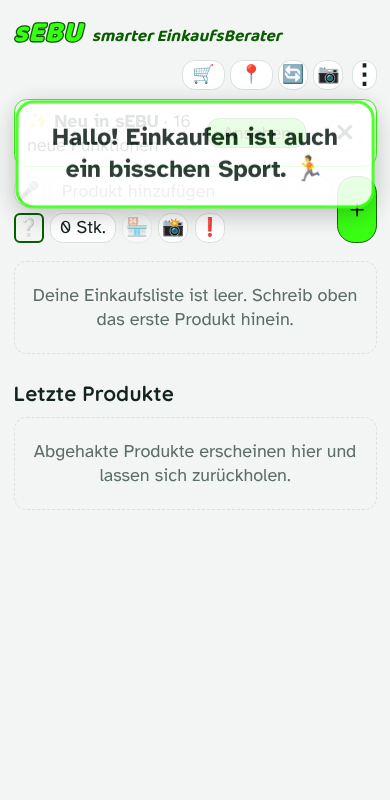
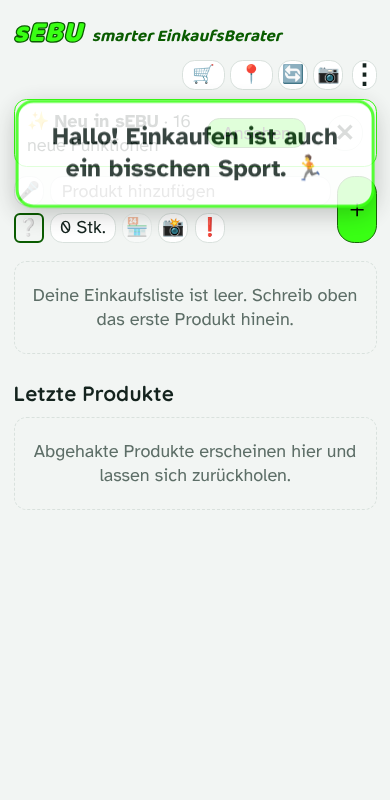
Listen-Leiste weg, aktive Liste klein beim Schnellstart-Knopf
Claude-Session: https://claude.ai/code/session_01D8YzSZq49mBYGwQ71jG7sa

Changed region(s): [[0.0615, 0.125, 0.9538, 0.2188], [0.0615, 0.25, 0.8615, 0.2812]]

diff --git a/index.html b/index.html
@@ -106,6 +106,7 @@ html.addwrap .add{display:grid;grid-template-columns:repeat(var(--n),auto) 1fr a
 .wheels.hz .band{top:0;left:calc(50% - var(--ww)/2);width:var(--ww);height:var(--wo);right:auto}
 .greet{position:fixed;left:50%;top:4.2em;transform:translateX(-50%);width:min(92vw,26em);z-index:60;background:var(--card);color:var(--ink);border:3px solid #39FF14;box-shadow:0 6px 24px rgba(0,0,0,.25);border-radius:18px;padding:.8em 1em;font-size:1.35em;font-weight:700;text-align:center;line-height:1.3;animation:grin .35s ease-out;transition:opacity .4s,transform .4s;cursor:pointer}
 .greet.out{opacity:0;transform:translate(-50%,-.6em)}@keyframes grin{from{opacity:0;transform:translate(-50%,-.6em)}to{opacity:1;transform:translate(-50%,0)}}
+.qkb.ql{gap:.25em;padding:0 .55em}.qkb.ql small{font-size:.62em;max-width:6.5em;overflow:hidden;text-overflow:ellipsis;white-space:nowrap}
 .tc>.card{pointer-events:auto;display:block;max-width:34em;width:100%;user-select:text;box-shadow:0 .3em 1.2em #0005}
 .ordrow{display:flex;align-items:center;gap:.4em;padding:.3em .4em;margin-bottom:.3em;background:var(--card);border:1px solid var(--line);border-radius:.7em}
 .ordrow.drag{opacity:.5}
@@ -531,7 +532,10 @@ function banner(){
   +(S.set.cats&&S.items.length?'<div class="ban"><span class="small">'+esc(catsLine())+'</span></div>':'');
  return''}
 function quickNav(){var q=S.set.quick;if(!q)return null;return NAV.concat(MORE).filter(function(n){return n[0]===q})[0]||null}
-function quickBtn(){var n=quickNav();if(!n)return'';return'<button class="btn sq qkb" data-a="quick" aria-label="'+t('Schnellstart: {0}',t(n[2]))+'">'+n[1]+'</button>'}
+function quickBtn(){var n=quickNav();if(!n)return'';if(n[0]==='lists'){var al=listById(curL())||{id:'L0',name:'Allgemein'};return'<button class="btn qkb ql" data-a="quick" aria-label="'+t('Einkaufsliste wählen, aktiv: {0}',lname(al))+'">'+n[1]+'<small>'+esc(lname(al))+'</small></button>'}return'<button class="btn sq qkb" data-a="quick" aria-label="'+t('Schnellstart: {0}',t(n[2]))+'">'+n[1]+'</button>'}
+function shListPick(){var c=curL(),h='<h2>📋 '+t('Welche Liste?')+'</h2><div class="seg" style="flex-direction:column;align-items:stretch">';
+ S.lists.forEach(function(l){var n=S.items.filter(function(i){return listOf(i)===l.id}).length;h+='<button class="btn'+(l.id===c?' pri':'')+'" data-a="listpick" data-v="'+l.id+'" style="justify-content:flex-start">'+(l.id===c?'✓ ':'')+esc(lname(l))+(n?' <span class="small">('+n+')</span>':'')+(l.store?' <span class="small mute">📍 '+esc(l.store)+'</span>':'')+'</button>'});
+ return h+'</div><div class="seg" style="margin-top:.6em"><button class="btn" data-a="nav" data-v="lists">⚙ '+t('Listen verwalten')+'</button><button class="btn" data-a="shclose">'+t('Schliessen')+'</button></div>'}
 function shopBar(pv){
  if(S.shop&&!pv)return'';var b=on('bar'),c=on('cam')||on('scan'),qb=quickBtn();if(!b&&!c&&!qb)return'';var x=pv?'':' id="shopbtn"';
  return'<div class="seg topbar" style="margin-bottom:.5em">'+qb+(b?'<button class="btn"'+x+' data-a="shopstart" aria-label="'+t('Einkauf starten')+'">🛒'+(S.set.btnText?' '+t('Start'):'')+'</button>'+(cur?'':'<button class="btn" data-a="storepick" aria-label="'+t('Laden wählen')+'">📍'+(S.set.btnText?' '+t('Laden'):'')+'</button>')+'<button class="btn sq" data-a="gpsrefresh" aria-label="'+t('Filiale neu suchen')+'">🔄</button>':'')+(c?'<button class="btn sq'+(pv?'':' camb')+'" data-a="cam" aria-label="'+t(on('scan')&&!on('cam')?'Strichcode scannen':'Ratgeber')+'">📷</button>':'')+'</div>'}
@@ -745,8 +749,8 @@ function listBar(){if(!S.lists||S.lists.length<2)return'';var c=curL(),h='<div c
  S.lists.forEach(function(l){var n=S.items.filter(function(i){return listOf(i)===l.id}).length;h+='<button class="chip'+(l.id===c?' sel':'')+'" data-a="listset" data-v="'+l.id+'">🧾 '+esc(lname(l))+(n?' ('+n+')':'')+'</button>'});
  return h+'</div>'}
 function storeOpts(){var o=[],seen={};function a(n){if(n&&!seen[n]){seen[n]=1;o.push(n)}}S.mine.forEach(function(m){a(m.name)});noLocStores().forEach(a);allCh().filter(chainOn).forEach(a);return o}
-function listsBlock(){var h='<p class="small mute">'+t('Statt jedes Produkt einem Laden zuzuordnen, legst du eine eigene Liste an, zum Beispiel «Aligro». Oben über der Liste wechselst du zwischen den Listen. Mit einem Laden öffnet sich die Liste von selbst, wenn du dort bist.')+'</p>',so=storeOpts();
- S.lists.forEach(function(l,ix){h+='<div class="card" style="flex-wrap:wrap;gap:.4em"><input class="field" data-chg="lname" data-id="'+l.id+'" value="'+esc(lname(l))+'" style="flex:1 1 8em"><select class="field" data-chg="lstore" data-id="'+l.id+'" style="flex:1 1 8em;height:calc(var(--rh)*.8)"><option value="">'+t('Kein Laden')+'</option>'+so.map(function(n){return'<option value="'+esc(n)+'"'+(l.store===n?' selected':'')+'>📍 '+esc(n)+'</option>'}).join('')+'</select>'+(l.id==='L0'?'':'<button class="btn sq" data-a="listdel" data-id="'+l.id+'" aria-label="'+t('Liste löschen')+'">✕</button>')+'</div>'});
+function listsBlock(){var h='<p class="small mute">'+t('Statt jedes Produkt einem Laden zuzuordnen, legst du eine eigene Liste an, zum Beispiel «Aligro». Die aktive Liste wählst du hier mit «Wählen» – oder schneller über den Schnellstart-Knopf, wenn du dort «Einkaufslisten» einstellst. Mit einem Laden öffnet sich die Liste von selbst, wenn du dort bist.')+'</p>',so=storeOpts();
+ S.lists.forEach(function(l,ix){var ac=l.id===curL();h+='<div class="card" style="flex-wrap:wrap;gap:.4em"><button class="btn'+(ac?' pri':'')+'" data-a="listset" data-v="'+l.id+'" aria-label="'+t('Als aktive Liste wählen')+'">'+(ac?'✓ '+t('Aktiv'):t('Wählen'))+'</button><input class="field" data-chg="lname" data-id="'+l.id+'" value="'+esc(lname(l))+'" style="flex:1 1 8em"><select class="field" data-chg="lstore" data-id="'+l.id+'" style="flex:1 1 8em;height:calc(var(--rh)*.8)"><option value="">'+t('Kein Laden')+'</option>'+so.map(function(n){return'<option value="'+esc(n)+'"'+(l.store===n?' selected':'')+'>📍 '+esc(n)+'</option>'}).join('')+'</select>'+(l.id==='L0'?'':'<button class="btn sq" data-a="listdel" data-id="'+l.id+'" aria-label="'+t('Liste löschen')+'">✕</button>')+'</div>'});
  h+='<h3 id="listnew">＋ '+t('Neue Liste')+'</h3><div class="seg"><input class="field" id="lnn" placeholder="'+t('Name, z. B. Aligro')+'" style="flex:1"><button class="btn pri" data-a="listadd">＋ '+t('Liste')+'</button></div>';
  return h+rowC(t('Liste automatisch öffnen, wenn ich im Laden bin'),'listAuto',S.set.listAuto!==false)}
 /* ===== Begrüssung: 3 s gross beim Öffnen, je Tageszeit, 31 Sprüche = kein Spruch doppelt im Monat ===== */
@@ -772,7 +776,7 @@ function addRow(real){var has=draft.type||draft.stores.length||draft.stext,id=fu
 function vList(){
  var h=newsBanner()+banner()+locBanner()+remBanner()+typBanner()+openBanner()+alarm()+shopBar()+askBar(),nMore=S.items.filter(function(i){return i.type}).length,has=draft.type||draft.stores.length||draft.stext;
  if(nMore||ltab==='more')h+='<div class="seg" style="margin-bottom:.5em"><button class="btn'+(ltab==='food'?' sel':'')+'" data-a="ltab" data-v="food">'+t('Lebensmittel')+'</button><button class="btn'+(ltab==='more'?' sel':'')+'" data-a="ltab" data-v="more">'+t('Weitere')+' ('+nMore+')</button></div>';
- h+=listBar()+addRow(1)+'<div id="sug" class="sug">'+sugHtml()+'</div>';
+ h+=addRow(1)+'<div id="sug" class="sug">'+sugHtml()+'</div>';
  var cl=curL(),mineI=sortedItems().filter(function(i){return(listOf(i)===cl&&inTab(i))||(i.urg&&ltab==='food')});
  if(!mineI.length)h+='<div class="empty">'+(ltab==='more'?t('Hier stehen Dinge, die nicht in den Supermarkt gehören, zum Beispiel aus dem Baumarkt. Wähle bei der Eingabe mit 🏪 einen Ladentyp.'):t('Deine Einkaufsliste ist leer. Schreib oben das erste Produkt hinein.'))+'</div>';
  else if((S.set.swipeN||0)<3)h+='<p class="mute small" style="margin:0 0 .4em">'+t('Zum Löschen ein Produkt nach links wischen.')+'</p>';
@@ -849,7 +853,7 @@ function shShop(){var s=sh.sel,h='<h2>'+t('Wo kaufst du das?')+'</h2><h3>'+t('Le
  +'</div><div class="seg" style="margin-top:.6em"><input class="field" id="sst" value="'+esc(s.text)+'" placeholder="'+t('Anderer Laden (optional, von Hand)')+'" style="flex:1"></div>'
  +'<div class="seg" style="margin-top:.6em"><button class="btn pri" data-a="shok">OK</button><button class="btn" data-a="shclr">'+t('Zurücksetzen')+'</button><button class="btn" data-a="shclose">'+t('Abbrechen')+'</button></div>';return h}
 function sheetHtml(){if(!sh)return'';var b='';
- switch(sh.t){case'cat':b=shCat();break;case'store':b=shStore();break;case'hedit':b=shHedit();break;case'confirm':b=shConfirm();break;case'delcat':b=shDelcat();break;case'qty':b=shQty();break;case'shopsel':b=shShop();break;case'emoji':b=shEmoji();break;case'deal':b=shDeal();break;case'dealconf':b=shDealConf();break;case'scan':b=shScan();break;case'voice':b=shVoice();break;case'remask':b=shRemAsk();break;case'photo':b=shPhoto();break;case'geointro':b=shGeoIntro();break;case'lochelp':b=shLocHelp();break;case'price':b=shPrice();break;case'news':b=shNews();break;case'camwhich':b=shCamWhich();break}
+ switch(sh.t){case'cat':b=shCat();break;case'store':b=shStore();break;case'hedit':b=shHedit();break;case'confirm':b=shConfirm();break;case'delcat':b=shDelcat();break;case'qty':b=shQty();break;case'shopsel':b=shShop();break;case'emoji':b=shEmoji();break;case'deal':b=shDeal();break;case'dealconf':b=shDealConf();break;case'scan':b=shScan();break;case'voice':b=shVoice();break;case'remask':b=shRemAsk();break;case'photo':b=shPhoto();break;case'listpick':b=shListPick();break;case'geointro':b=shGeoIntro();break;case'lochelp':b=shLocHelp();break;case'price':b=shPrice();break;case'news':b=shNews();break;case'camwhich':b=shCamWhich();break}
  return'<div class="sheet" data-a="shclose"><div>'+b+'</div></div>'}
 
 function shQty(){var us=allUnits(),hd=S.set.hand||'right',h='<h2>'+t('Menge und Einheit')+'</h2><div class="wheels hz '+hd+'"><div class="wl">'+t('Menge')+'</div><div class="wrow wq"><div class="wheel" id="wq"><div class="sp"></div>';
@@ -1106,8 +1110,7 @@ AREAS.push(['Eingabeseite',[
  st('list','#catb','Links zeigt das Symbol das Produkt oder die Kategorie. Die App erkennt es beim Schreiben selbst, auch in zusammengesetzten Wörtern: «Paprikapulver» bekommt 🫑. Antippen wählt die Kategorie von Hand.','Gedrückt halten auf dem Symbol eines Produkts zeigt, wohin es gehört, zum Beispiel «Vorräte › Öl & Essig».\nKategorie-Auswahl: oben suchen (zum Beispiel «Asia») oder bei einer Hauptkategorie ▸ antippen, dann erscheinen die Unterkategorien.\nEigenes Symbol: Symbol antippen, dann «Eigenes Symbol für das Produkt». Die App merkt es sich.\nWenn das Symbol nicht passt: dort «Wieder automatisch» oder ein anderes wählen.\nEigene Kategorien legst du in den Einstellungen an.',{ro:1}),
  st('list','.add .qu','Menge und Einheit: Die Menge hat drei Ziffern und beginnt bei 0. Eigene Einheiten kannst du einfach hineinschreiben.','Tippe darauf: Zwei grosse Räder erscheinen, eines für die Menge, eines für die Einheit. Sie laufen waagrecht – nach links oder rechts wischen. Jeder Schritt rastet ein und macht «klick».\nFür welche Hand die Räder liegen, stellst du unter «Favoriten und Letzte Produkte» ein.\nDer Klick lässt sich unter Einstellungen → «Favoriten und Letzte Produkte» ausschalten.',{ro:1}),
  st('list','[data-a=shopsel][data-id=draft]','🏪: Wähle, wo du das Produkt kaufst, oder einen Ladentyp wie Baumarkt.','Produkte mit festem Laden erscheinen in der Liste erst, wenn du dort bist. Du findest sie immer unter «Läden».',{ro:1}),
- st('list','.qkb','⚡ Schnellstart: Dieser Knopf öffnet direkt deinen Lieblingsbereich.','Welcher Bereich, wählst du unter Einstellungen → Einkaufsliste → Schnellstart-Knopf.',{ro:1}),
- st('list','#lbar','🧾 Einkaufslisten: Hier wechselst du zwischen deinen Listen, zum Beispiel «Allgemein» und «Aligro». Was du eingibst, kommt in die gewählte Liste.','Dringende Produkte ❗ siehst du in jeder Liste.\nListen legst du unter Einstellungen → Einkaufslisten an. Mit einem Laden öffnet sich die Liste von selbst, wenn du dort bist.\n<b>Wenn ein Produkt fehlt:</b> Es steht wohl in einer anderen Liste – die Zahl in Klammern zeigt, wie viele dort sind.',{ro:1}),
+ st('list','.qkb','⚡ Schnellstart: Dieser Knopf öffnet direkt deinen Lieblingsbereich.','Welcher Bereich, wählst du unter Einstellungen → Einkaufsliste → Schnellstart-Knopf.\n<b>Mit «Einkaufslisten»:</b> Neben 📋 steht klein, welche Liste gerade aktiv ist. Antippen öffnet die Auswahl deiner Listen.\n<b>Wenn ein Produkt fehlt:</b> Es steht wohl in einer anderen Liste – die Zahl in Klammern zeigt, wie viele dort sind.',{ro:1}),
  st('list','.phb','📸 Produktfoto: Fotografiere das Produkt beim Aufschreiben, dann kaufst du sicher das richtige.','Das Foto ersetzt in der Liste das Symbol, das Produkt bleibt in seiner Kategorie. Antippen zeigt das Foto gross, dort kannst du es ersetzen oder entfernen.\nDas Foto bleibt beim Produkt, auch bei den Favoriten und den letzten Produkten.\n<b>Wenn es nicht klappt:</b> Kamera für Safari erlauben. Fotos brauchen Speicher – bei «Speicher voll» alte Fotos entfernen.',{ro:1}),
  st('list','[data-a=urgtog][data-id=draft]','❗ Notfall: Tippe vor dem ＋ darauf, wenn etwas dringend ist. Dringendes steht immer zuoberst, rot umrandet und grösser.','Dringend erscheint in jedem Laden, auch wenn du es einem bestimmten Laden zugeordnet hast. Beim Einkaufsende erinnert die App, wenn noch Dringendes offen ist.\nNachträglich: Produktname antippen und ❗ wählen. Ein Tipp auf das rote ❗ in der Liste nimmt die Dringlichkeit wieder weg.',{ro:1}),
  st('list','.add','Jetzt probierst du es: Schreibe «Milch» und tippe auf ＋.','Die App lernt mit: Kategorie, Menge und Laden merkt sie sich für das nächste Mal.',{act:'add'}),
@@ -1245,7 +1248,7 @@ var tour=null;
 var OOPS=['Hoppla, hier noch nicht. Tippe auf das leuchtende Feld.','Netter Versuch! Das leuchtende Feld ist gemeint.','Die App schmunzelt: Ein Feld weiter, bitte.','Fast! Aber nur fast.','Das war ein Fehlklick. Passiert den Besten.','Die Einkaufsliste hält dir die Daumen: Leuchtendes Feld!','Kalt, kalt. Das Leuchten ist woanders.','Der Finger war schneller als das Auge.','Hier gibt es nichts zu sehen. Dort leuchtet es!','Gut gezielt, leider falsch.','Die Milch lacht schon.','Tipp-Tipp, aber ins Leere.'];
 var OOPS2=['Wieder daneben! Das Leuchtende, mein Freund, das Leuchtende.','Soll ich dir eine Taschenlampe leihen?','Dein Finger hat einen eigenen Kopf, oder?','Das Feld leuchtet doch extra für dich. Sei nett zu ihm.','Noch einmal daneben, und die Tomate wird beleidigt.','Du tippst wie ein Profi, nur leider ins Nichts.','Die Brotscheibe schüttelt den Kopf.','Ich glaube, du machst das mit Absicht.','Die App seufzt leise. Leuchtendes Feld, bitte!','Treffer verfehlt. Versenkt wurde: nichts.','Hier ist kein Schatz vergraben. Nur das Leuchten.','Das war jetzt wirklich frech von deinem Finger.'];
 var ENDS=['Einkaufs-Profi','Listen-Legende','Meister der Regale','Rabatt-Jäger*in'],oopsN=0,lastOops=-1;
-var NEED={'#catb':'cat','.card[data-swk=i] .ic':'cat','.card [data-fire]':'fire','.card [data-a=fav]':'fav','#shopbtn':'bar','[data-a=gpsrefresh]':'bar','.camb':'cam','row:Letzte Produkte':'recent','[data-a=shopsel][data-id=draft]':'shop','.menu [data-v=favs]':'fav','.navb':'nav','#noloc':'','#lbar':'lists','.qkb':'quick','.phb':'photo','.micb':'voice','#remh':'remind','[data-ccol]':'catcol','[data-a=urgtog][data-id=draft]':'urg'};
+var NEED={'#catb':'cat','.card[data-swk=i] .ic':'cat','.card [data-fire]':'fire','.card [data-a=fav]':'fav','#shopbtn':'bar','[data-a=gpsrefresh]':'bar','.camb':'cam','row:Letzte Produkte':'recent','[data-a=shopsel][data-id=draft]':'shop','.menu [data-v=favs]':'fav','.navb':'nav','#noloc':'','.qkb':'quick','.phb':'photo','.micb':'voice','#remh':'remind','[data-ccol]':'catcol','[data-a=urgtog][data-id=draft]':'urg'};
 function tourSteps(w){return tourSteps0(w).filter(function(s){var n=s.v==='favs'?'fav':NEED[s.sel];return !n||(n==='quick'?!!quickNav():n==='lists'?S.lists&&S.lists.length>1:n==='cam'?on('cam')||on('scan'):on(n))})}
 function tourSteps0(w){var A=AREAS;if(w&&typeof w==='object')return w.steps||[];
  if(w==='all')return[].concat.apply([],A.map(function(a){return a[1]}));
@@ -1353,7 +1356,8 @@ function act(a,el){var D=el.dataset,i,it;
  case'menu':menu=!menu;more=false;break;
  case'more':more=!more;break;
  case'nav':nav(D.v);return;
- case'quick':{var qn=quickNav();if(qn)nav(qn[0]);return}
+ case'quick':{var qn=quickNav();if(!qn)return;if(qn[0]==='lists'){sh={t:'listpick'};break}nav(qn[0]);return}
+ case'listpick':S.curList=D.v;listAutoOn=false;sh=null;break;
  case'viewmode':setView(D.v);break;
  case'yes':if(pend)setCur(pend);break;
  case'pick':if(pick){var pf=pick[+D.v];S.learn.pick=S.learn.pick||{};S.learn.pick[pairKey(pick[0],pick[1])]=pf.name;setCur(pf)}break;
@@ -1580,7 +1584,7 @@ var sw0=null,dragId=null,upS=null;
 document.addEventListener('pointerdown',function(e){if(e.target.closest&&e.target.closest('.wheels')&&S.set.tick!==false&&!actx){try{var AC=window.AudioContext||window.webkitAudioContext;if(AC){actx=new AC();var b=actx.createBuffer(1,1,22050),sr=actx.createBufferSource();sr.buffer=b;sr.connect(actx.destination);sr.start(0)}}catch(x){}}},true);
 function catPath(i){var m=i.cat&&cat(i.cat),sb=i.sub&&cat(i.sub);return iconOf(i)+' '+i.name+': '+(m?t('gehört zu')+' '+cname(m)+(sb?' › '+cname(sb):''):t('noch ohne Kategorie'))+'. '+t('Antippen ändert die Kategorie.')}
 /* ===== Erklärung beim Gedrückthalten (2 Sekunden) ===== */
-var HELP={shopstart:'🛒 Einkauf starten: Die App lernt deine Reihenfolge im Laden und sortiert die Liste danach.',storepick:'📍 Laden wählen: von Hand, wenn die Erkennung nicht klappt.',gpsrefresh:'🔄 Laden neu suchen, in dem du gerade bist.',voice:'🎤 Sprache: Produkte sagen statt tippen.',cam:'📷 Strichcode scannen oder den Ratgeber fragen.',catpick:'Kategorie wählen oder ein eigenes Symbol für das Produkt.',qty:'Menge und Einheit ändern.',shopsel:'🏪 Wo kaufst du das? Laden oder Ladentyp wählen.',urgtog:'❗ Dringend: steht immer zuoberst und fällt auf.',add:'＋ Produkt auf die Liste setzen.',fav:'☆ Als Favorit merken.',fsdn:'Schrift kleiner.',quick:'⚡ Schnellstart: öffnet direkt den Bereich, den du unter Einstellungen → Einkaufsliste gewählt hast.',listset:'🧾 Zu dieser Einkaufsliste wechseln. Neues kommt in die gewählte Liste.',listadd:'Neue Einkaufsliste anlegen.',listdel:'Liste löschen – die Produkte kommen in «Allgemein».',storenew:'Neuen Laden mit deinem aktuellen Standort speichern.',geogo:'Weiter zur Standort-Frage von Safari.',todayno:'Für heute ausblenden.',remnextok:'Erinnerung schliessen.',remnextoff:'Nicht mehr an diese Produkte erinnern.',locsave:'Standort dieses Ladens speichern – stehe dafür im Laden.',locno:'Für diesen Laden nicht mehr fragen.',pricesave:'Preis speichern.',photoview:'Foto gross ansehen, ersetzen oder entfernen.',photodel:'Foto entfernen.',newsopen:'Die neuen Funktionen ansehen.',newsok:'Neuheiten-Hinweis ausblenden. Unter Einstellungen → Einführung jederzeit nachlesbar.',remx:'✕ Erinnerung an andere Läden ausblenden – bis zum nächsten Öffnen.',newsshow:'Kurze Führung zu dieser Neuheit.',newsall:'Alle Neuheiten nochmals ansehen.',dealx:'✕ Aktionshinweis ausblenden. Beim nächsten Öffnen der App erscheint er wieder.',hintsback:'Kleine Hinweise wieder anzeigen.',fsup:'Schrift grösser.',check:'✓ Abhaken. Es kommt zu «Letzte Produkte».',menu:'⋮ Menü mit allen Bereichen.',shopend:'⏹ Einkauf beenden.',undo:'↩ Gelöschtes Produkt zurückholen.',back:'Wieder auf die Liste holen.',todayall:'Für heute merken: Die App erinnert dich heute daran.',remind:'🔔 Erinnerung: in sEBU nach dem nächsten Einkauf oder als iPhone-Erinnerung (einstellbar).'},hpT=null,hp0=null,helpShown=0;
+var HELP={shopstart:'🛒 Einkauf starten: Die App lernt deine Reihenfolge im Laden und sortiert die Liste danach.',storepick:'📍 Laden wählen: von Hand, wenn die Erkennung nicht klappt.',gpsrefresh:'🔄 Laden neu suchen, in dem du gerade bist.',voice:'🎤 Sprache: Produkte sagen statt tippen.',cam:'📷 Strichcode scannen oder den Ratgeber fragen.',catpick:'Kategorie wählen oder ein eigenes Symbol für das Produkt.',qty:'Menge und Einheit ändern.',shopsel:'🏪 Wo kaufst du das? Laden oder Ladentyp wählen.',urgtog:'❗ Dringend: steht immer zuoberst und fällt auf.',add:'＋ Produkt auf die Liste setzen.',fav:'☆ Als Favorit merken.',fsdn:'Schrift kleiner.',quick:'⚡ Schnellstart: öffnet direkt den Bereich, den du unter Einstellungen → Einkaufsliste gewählt hast.',listset:'🧾 Diese Liste aktiv machen. Neues kommt in die aktive Liste.',listpick:'Zu dieser Liste wechseln.',listadd:'Neue Einkaufsliste anlegen.',listdel:'Liste löschen – die Produkte kommen in «Allgemein».',storenew:'Neuen Laden mit deinem aktuellen Standort speichern.',geogo:'Weiter zur Standort-Frage von Safari.',todayno:'Für heute ausblenden.',remnextok:'Erinnerung schliessen.',remnextoff:'Nicht mehr an diese Produkte erinnern.',locsave:'Standort dieses Ladens speichern – stehe dafür im Laden.',locno:'Für diesen Laden nicht mehr fragen.',pricesave:'Preis speichern.',photoview:'Foto gross ansehen, ersetzen oder entfernen.',photodel:'Foto entfernen.',newsopen:'Die neuen Funktionen ansehen.',newsok:'Neuheiten-Hinweis ausblenden. Unter Einstellungen → Einführung jederzeit nachlesbar.',remx:'✕ Erinnerung an andere Läden ausblenden – bis zum nächsten Öffnen.',newsshow:'Kurze Führung zu dieser Neuheit.',newsall:'Alle Neuheiten nochmals ansehen.',dealx:'✕ Aktionshinweis ausblenden. Beim nächsten Öffnen der App erscheint er wieder.',hintsback:'Kleine Hinweise wieder anzeigen.',fsup:'Schrift grösser.',check:'✓ Abhaken. Es kommt zu «Letzte Produkte».',menu:'⋮ Menü mit allen Bereichen.',shopend:'⏹ Einkauf beenden.',undo:'↩ Gelöschtes Produkt zurückholen.',back:'Wieder auf die Liste holen.',todayall:'Für heute merken: Die App erinnert dich heute daran.',remind:'🔔 Erinnerung: in sEBU nach dem nächsten Einkauf oder als iPhone-Erinnerung (einstellbar).'},hpT=null,hp0=null,helpShown=0;
 document.addEventListener('pointerdown',function(e){if(S.set.lpHelp===false)return;var hb=e.target.closest&&e.target.closest('button[data-a],a.navb,label.btn');if(!hb||hb.closest('.tc'))return;
  hp0={x:e.clientX,y:e.clientY};clearTimeout(hpT);hpT=setTimeout(function(){var it0=hb.dataset.a==='catpick'&&findItem(hb.dataset.id),m=(it0&&catPath(it0))||HELP[hb.dataset.a]||(hb.classList.contains('navb')?'🧭 Navigation: öffnet Google Maps mit dem Laden als Ziel.':'')||hb.getAttribute('aria-label')||hb.title;if(m){helpShown=Date.now();say(t(m),4500);if(navigator.vibrate)navigator.vibrate(20)}},2000)},true);
 document.addEventListener('pointermove',function(e){if(hp0&&Math.abs(e.clientX-hp0.x)+Math.abs(e.clientY-hp0.y)>12)clearTimeout(hpT)},true);

diff --git a/tests/t26.py b/tests/t26.py
@@ -7,7 +7,7 @@ with sync_playwright() as p:
     b=p.chromium.launch()
     c=b.new_context(viewport={'width':390,'height':800});pg=c.new_page();pg.on('pageerror',lambda e:errs.append(str(e)))
     pg.goto('file://'+os.getcwd()+'/index.html');pg.evaluate("localStorage.setItem('sebu.v1',JSON.stringify({ob:{done:true},set:{newsSeen:'n14'},mine:[{name:'Aligro Schlieren',lat:47.2,lon:8.9}]}))");pg.reload()
-    print('no bar with one list',pg.locator('#lbar').count()==0)
+    print('no bar',pg.locator('#lbar').count()==0)
     pg.fill('#dn','Milch');pg.click('[data-a=add]')
     pg.fill('#dn','Pflaster');pg.click('[data-a=urgtog][data-id=draft]');pg.click('[data-a=add]')
     pg.click('#hamb');pg.click('.menu [data-v=lists]')
@@ -15,11 +15,16 @@ with sync_playwright() as p:
     sid=[l['id'] for l in st(pg)['lists'] if l['name']=='Aligro'][0]
     pg.select_option('[data-chg=lstore][data-id="%s"]'%sid,'Aligro Schlieren')
     print('lists',[(l['name'],l.get('store')) for l in st(pg)['lists']])
-    pg.click('[data-a=nav][data-v=list] >> nth=0');pg.wait_for_timeout(200)
     pg.click('[data-a=listset][data-v="%s"]'%sid)
+    pg.click('[data-a=nav][data-v=list] >> nth=0');pg.wait_for_timeout(200)
+    print('no bar with two lists',pg.locator('#lbar').count()==0)
     pg.fill('#dn','Rapsöl 5 Liter');pg.click('[data-a=add]')
     a=pg.inner_text('#app');print('aligro shows own + urgent',('Rapsöl' in a,'Pflaster' in a,'Milch' in a))
-    pg.click('[data-a=listset][data-v=L0]');a=pg.inner_text('#app');print('allgemein',('Rapsöl' in a,'Pflaster' in a,'Milch' in a),'count chip','Aligro (1)' in a)
+    pg.evaluate("localStorage.setItem('sebu.v1',JSON.stringify(Object.assign(JSON.parse(localStorage.getItem('sebu.v1')),{set:Object.assign(JSON.parse(localStorage.getItem('sebu.v1')).set,{quick:'lists',greet:'off'})})))");pg.reload();pg.wait_for_timeout(300)
+    print('quick shows active',pg.inner_text('.qkb'))
+    pg.screenshot(path='/tmp/claude-0/shots/s29.png')
+    pg.click('.qkb');print('picker count',pg.locator('[data-a=listpick]').count(),'aligro (1)','(1)' in pg.inner_text('.sheet'))
+    pg.click('[data-a=listpick][data-v=L0]');a=pg.inner_text('#app');print('allgemein',('Rapsöl' in a,'Pflaster' in a,'Milch' in a),'label',pg.inner_text('.qkb'))
     # Löschen
     pg.click('#hamb');pg.click('.menu [data-v=settings]');pg.click('[data-a=sub][data-v=lists]')
     pg.click('[data-a=listdel][data-id="%s"]'%sid);pg.click('[data-a=listdelgo]')

diff --git a/CLAUDE.md b/CLAUDE.md
@@ -49,7 +49,7 @@ Besitzer: Rico Schubiger (GitHub `Schubiger-Rico`), Schweiz, Deutsch. Er arbeite
 - Neu in sEBU: `NEWS`-Liste [id, Symbol, Text, Mini-Führungs-Schritte]; ruhige Zeile oben (`newsBanner`) mit «Ansehen»/✕, Sheet `news` mit «Kurz zeigen» (`tourStart({steps})`); gesehen bis `S.set.newsSeen`; Neue Nutzer sehen alte Neuheiten nicht; abschaltbar `S.set.news`, «Neuheiten ansehen» unter Einführung.
 - Hinweis «nach links wischen» nur bis 3× gewischt (`S.set.swipeN`, Knopf «Wieder anzeigen» unter Darstellung). Letzte Produkte: Anzahl/Sortierung nur in den Einstellungen.
 - Drehräder Menge/Einheit (`shQty`, `wheelInit`): **waagrecht** (Klasse `.hz`, Helfer `wHz/wIdx/wSet`), Händigkeit `S.set.hand` right (Standard, Räder ganz rechts 62 %, Daumen wischt von rechts nach links)/left/both; Grösse `--wo`, Breite `--ww`, gewählte Zahl `.on`, `scroll-snap-stop:always`. Pro Schritt `tick()`: kurzer Web-Audio-Klick (iPhone + Android) und auf Android `navigator.vibrate(8)`; Einstellung `S.set.tick` (Favoriten und Letzte Produkte), «Lautlos» unterdrückt. iPhone-Stummschalter macht den Klick stumm.
-- Mehrere Einkaufslisten: `S.lists` [{id,name,store?}], Standard `L0` «Allgemein», aktuelle `S.curList` (`curL()`), Produkt `item.list` (fehlt = L0, `listOf`). Leiste `#lbar` (`listBar`) über der Eingabe nur bei ≥2 Listen; Neues kommt in die gewählte Liste; Dringendes ❗ in jeder Liste. Einstellungen-Sparte «Einkaufslisten» (`lists`, `listsBlock`: Name, Laden, ✕ → Produkte nach Allgemein). Mit Laden: `setCur` öffnet die Liste automatisch (`S.set.listAuto`, `listAutoOn`), nach `shopEnd` zurück zu Allgemein. Die Zuordnung pro Produkt zu Läden bleibt zusätzlich bestehen.
+- Mehrere Einkaufslisten: `S.lists` [{id,name,store?}], Standard `L0` «Allgemein», aktuelle `S.curList` (`curL()`), Produkt `item.list` (fehlt = L0, `listOf`). Keine Listen-Leiste mehr (überladen); Wechsel über Schnellstart = «Einkaufslisten» (Knopf `.qkb.ql` zeigt klein die aktive Liste, Antippen → Sheet `listpick`) oder unter Menü → Einkaufslisten «Wählen» (`listset`); Neues kommt in die gewählte Liste; Dringendes ❗ in jeder Liste. Einstellungen-Sparte «Einkaufslisten» (`lists`, `listsBlock`: Name, Laden, ✕ → Produkte nach Allgemein). Mit Laden: `setCur` öffnet die Liste automatisch (`S.set.listAuto`, `listAutoOn`), nach `shopEnd` zurück zu Allgemein. Die Zuordnung pro Produkt zu Läden bleibt zusätzlich bestehen.
 - Schnellstart-Knopf: `S.set.quick` (leer = aus, Standard; sonst Bereich aus `NAV`/`MORE`), Knopf `.qkb` (`quickBtn`, `data-a=quick`) in der Kopfzeile vor 🛒, Auswahl unter Einstellungen → Einkaufsliste.
 - Begrüssung: beim Öffnen und Zurückkehren 3 s gross (`greetShow`, Overlay `#greet`, Antippen schliesst), Tageszeit `greetSlot` (Morgen 5–11, Tag 11–17, Abend 17–22, Nacht), `GREET` je 31 Sprüche, Auswahl nach Tag im Monat → keine Wiederholung im Monat; `S.set.greet` fun (Standard)/short/off unter Darstellung.
 - Zeilenhöhe: `S.set.rows` compact (Standard) / normal, Klasse `html.compact` in `applyLook()`.

diff --git a/docs/ENTSCHEIDUNGEN.md b/docs/ENTSCHEIDUNGEN.md
@@ -796,3 +796,4 @@ Stand heute: 1 gebaut; 2 teilweise (Aktionen, aber ohne echte Datenquelle); 3 te
 - **Umgesetzt am 25.11.:** Begrüssung beim Öffnen 3 s gross, je Tageszeit 31 witzige Sprüche (pro Tag einer, kein Spruch doppelt im Monat), Antippen schliesst. Darstellung → «Begrüssung»: Witzig / Kurz / Aus. Das dauerhafte «Hallo Rico» ist weg, die Kopf-Knöpfe haben dort Platz. In Führung und «Neu in sEBU» (n16).
 - 25.11.: «Einkaufslisten» in den Einstellungen ganz nach oben verschoben (vor Profil), auch in der Einstellungen-Führung.
 - 25.11.: Korrektur: «Zwei Stufen nach oben» hiess: «📋 Einkaufslisten» direkt im Menü ⋮ unter «Einkaufsliste» (öffnet die Listen-Verwaltung). Einstellungen-Sparte wieder am alten Platz. Auch in der Führung und als Schnellstart wählbar.
+- 25.11.: Listen-Leiste «Allgemein/Aligro» über der Eingabe entfernt (wirkte überladen). Ist der Schnellstart auf «Einkaufslisten» gestellt, steht neben 📋 klein die aktive Liste; Antippen öffnet die Auswahl. Unter Menü → Einkaufslisten pro Liste «Wählen»/«✓ Aktiv».
